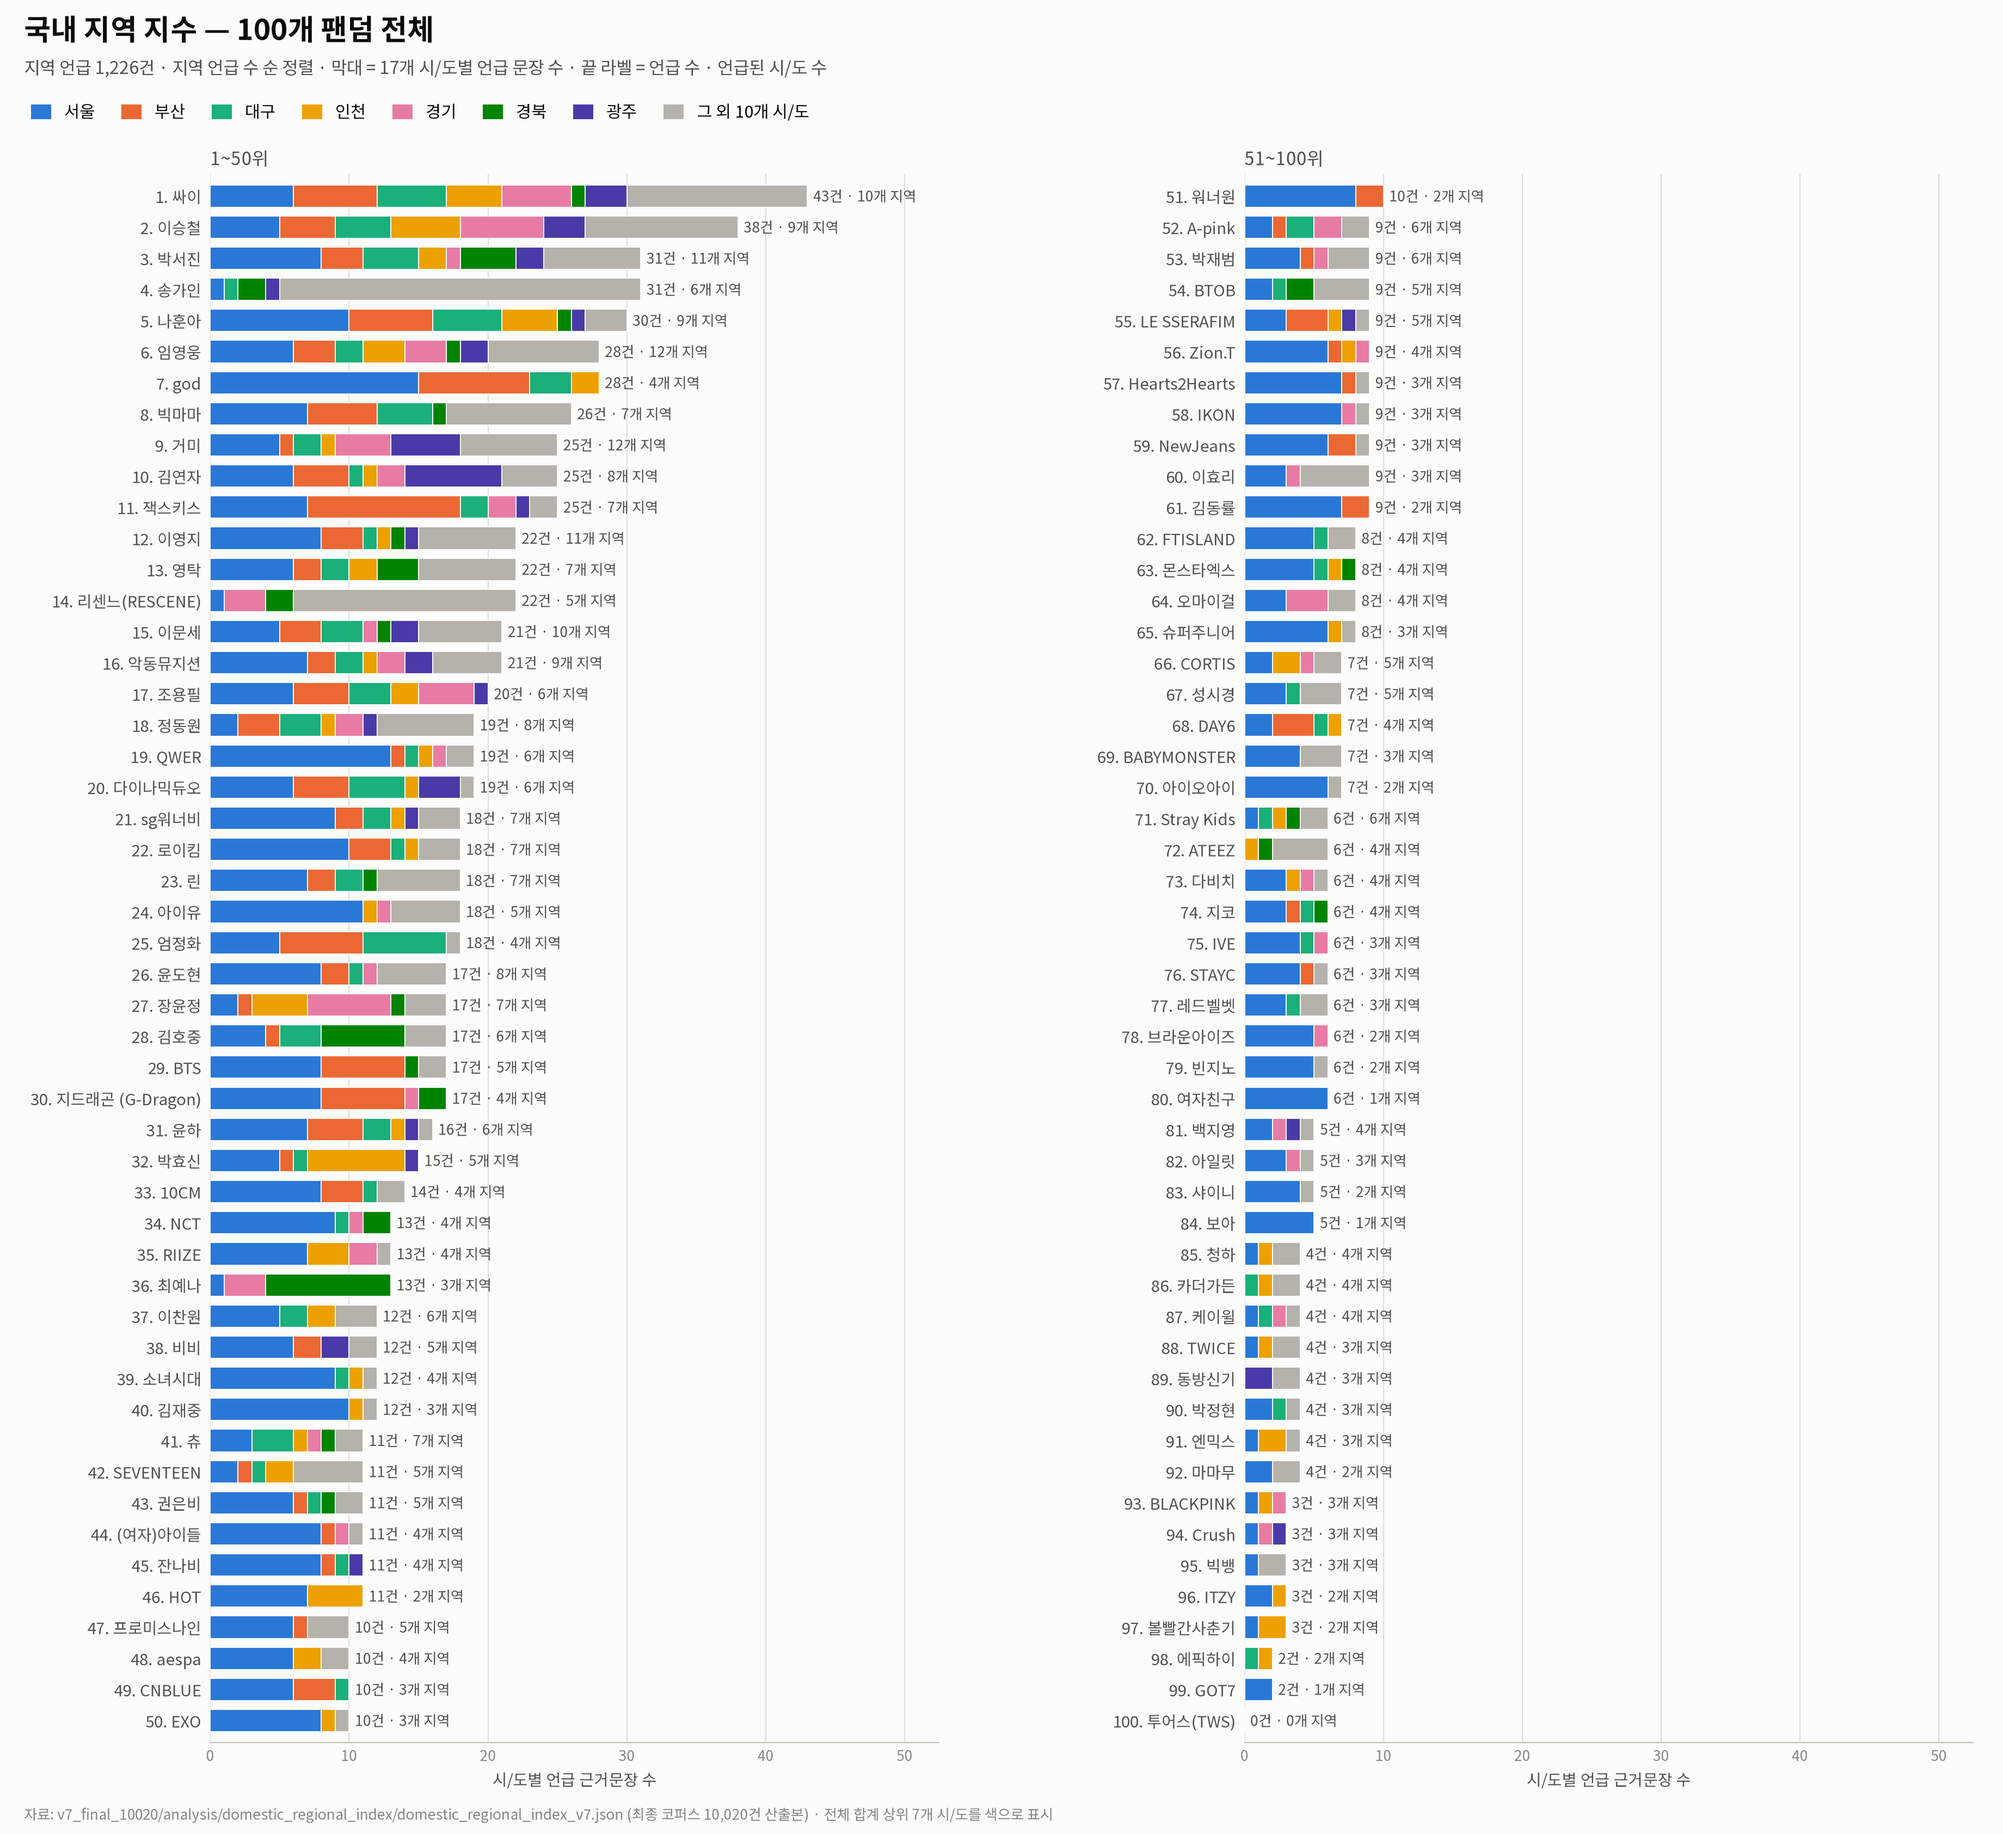
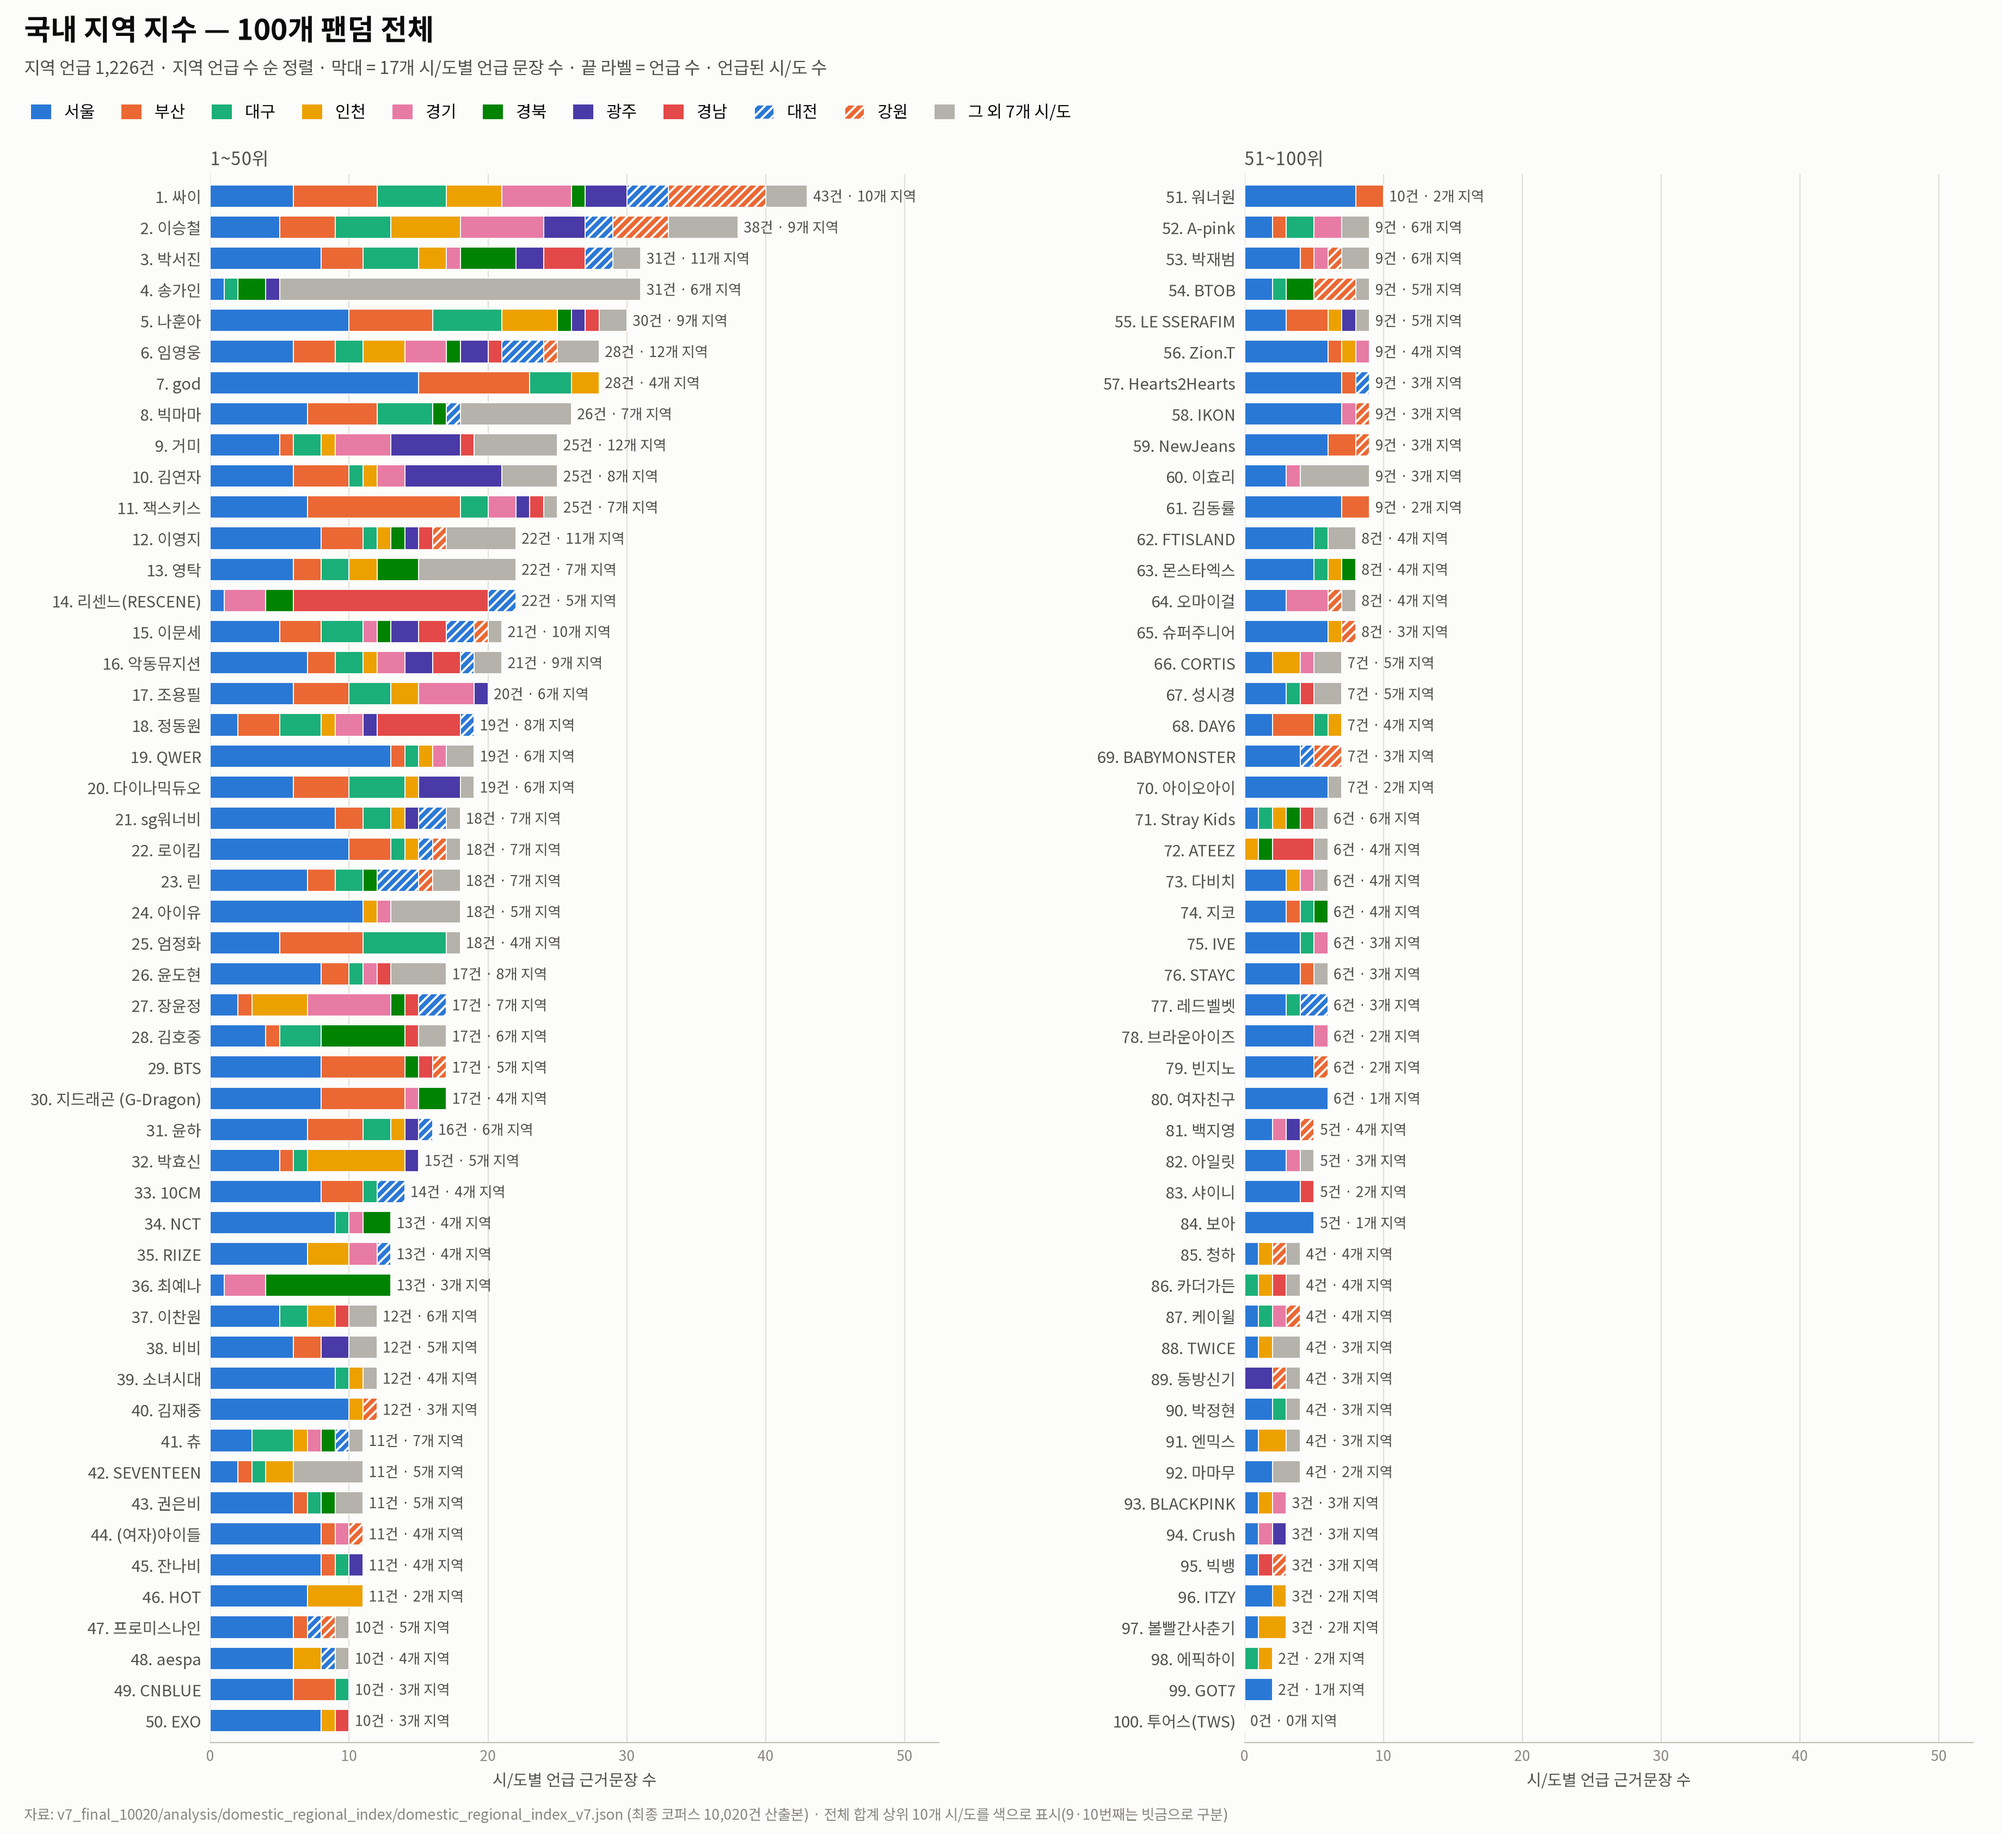
국내 지역 지수 100개 팬덤 그래프: 색 구분 시/도를 상위 7개 → 10개로 확대(대전·강원·경남 추가 구분)
9·10번째는 1·2번 색에 빗금을 더한 복합 인코딩, 나머지 7개 시/도는 '그 외' 회색.

Claude-Session: https://claude.ai/code/session_01VWuqhk8UFpTen2BecLssSX

diff --git a/v7_final_10020/charts/build_aux_indices_100_v7.py b/v7_final_10020/charts/build_aux_indices_100_v7.py
@@ -6,7 +6,7 @@ README 6절의 그림은 상위 20·25개만 보여 주므로, 같은 지표를 
   aux2_media_exposure_100.png       미디어·콘텐츠 노출 지수 — 예능·유튜브·영화·드라마 누적 막대
   aux3_fandom_cohesion_100.png      팬덤결속 지수 — 결속 유형 A~E 누적 막대
   aux4_media_crossover_100.png      매체 크로스오버 지수 — 서로 다른 뉴스 매체 수
-  aux5_domestic_regional_100.png    국내 지역 지수 — 지역 구성(상위 7개 시/도 + 그 외) 누적 막대
+  aux5_domestic_regional_100.png    국내 지역 지수 — 지역 구성(상위 10개 시/도 + 그 외) 누적 막대
   aux6_member_mci_45.png            멤버 집중도(MCI) — 45개 그룹, 구조적 하한 1/멤버수 표시
   aux7_worldwide_language_100.png   세계 언어 지수 — 해외언어 구성(상위 7개 언어 + 그 외) 누적 막대
 
@@ -51,9 +51,12 @@ plt.rcParams["axes.unicode_minus"] = False
 
 # ---- 색·잉크 (reference palette, light) -------------------------------------
 SERIES = ["#2a78d6", "#eb6834", "#1baf7a", "#eda100", "#e87ba4", "#008300", "#4a3aa7"]
+SERIES8 = "#e34948"        # 범주형 8번째 슬롯(red)
 OTHER = "#b4b2aa"          # '그 외' 묶음 — 의도적 중립 회색
 SURFACE, INK, INK2, MUTED, GRID, AXIS = "#fcfcfb", "#0b0b0b", "#52514e", "#898781", "#e1e0d9", "#c3c2b7"
 DPI = 200
+plt.rcParams["hatch.color"] = SURFACE
+plt.rcParams["hatch.linewidth"] = 1.4
 
 
 def load(p):
@@ -85,7 +88,7 @@ def footer(fig, text):
     fig.text(0.012, 0.006, text, fontsize=9.5, color=MUTED, va="bottom")
 
 
-def stacked_100(rows, keys, colors, labels, end_label, title, subtitle, xlabel, foot, fname, per_panel=50):
+def stacked_100(rows, keys, colors, labels, end_label, title, subtitle, xlabel, foot, fname, per_panel=50, hatches=None):
     """rows: [(name, {key: value}, total_for_sort)] 정렬 완료. 두 패널(1~50 / 51~100) 누적 가로 막대."""
     n = len(rows)
     panels = [rows[i:i + per_panel] for i in range(0, n, per_panel)]
@@ -98,9 +101,10 @@ def stacked_100(rows, keys, colors, labels, end_label, title, subtitle, xlabel, 
         names = [f"{pi * per_panel + i + 1:>3}. {r[0]}" for i, r in enumerate(part)]
         y = list(range(len(part)))[::-1]
         left = [0.0] * len(part)
-        for k, c in zip(keys, colors):
+        hs = hatches or [None] * len(keys)
+        for k, c, h in zip(keys, colors, hs):
             vals = [r[1].get(k, 0) for r in part]
-            ax.barh(y, vals, left=left, height=0.72, color=c, edgecolor=SURFACE, linewidth=0.7, zorder=2)
+            ax.barh(y, vals, left=left, height=0.72, color=c, edgecolor=SURFACE, linewidth=0.7, zorder=2, hatch=h)
             left = [a + b for a, b in zip(left, vals)]
         for yi, r, l in zip(y, part, left):
             ax.text(l + xmax * 0.008, yi, end_label(r), va="center", ha="left", fontsize=9.5, color=INK2, zorder=3)
@@ -110,7 +114,8 @@ def stacked_100(rows, keys, colors, labels, end_label, title, subtitle, xlabel, 
         style_axis(ax, xmax)
         ax.set_xlabel(xlabel, fontsize=10.5, color=INK2, labelpad=6)
         ax.set_title(f"{pi * per_panel + 1}~{pi * per_panel + len(part)}위", fontsize=12, color=INK2, loc="left", pad=6)
-    handles = [Patch(facecolor=c, edgecolor="none", label=l) for c, l in zip(colors, labels)]
+    handles = [Patch(facecolor=c, edgecolor=(SURFACE if h else "none"), hatch=h, label=l)
+               for c, l, h in zip(colors, labels, hatches or [None] * len(colors))]
     header(fig, title, subtitle, handles, ncol=len(handles))
     footer(fig, foot)
     fig.subplots_adjust(left=0.105, right=0.985, top=0.905, bottom=0.05, wspace=0.42)
@@ -180,7 +185,7 @@ rtot = {}
 for v in dr.values():
     for k, c in v["region_mention_counts"].items():
         rtot[k] = rtot.get(k, 0) + c
-reg7 = top_keys(rtot)
+reg7 = top_keys(rtot, 10)   # 상위 10개 시/도 — 범주형 8색 + 9·10번째는 1·2번 색에 빗금(복합 인코딩)
 rows = []
 for name, v in dr.items():
     rc = v["region_mention_counts"]
@@ -188,12 +193,12 @@ for name, v in dr.items():
     d["_other"] = sum(c for k, c in rc.items() if k not in reg7)
     rows.append((name, d, (v["total_region_mentions"], v["n_regions_hit"], v.get("region_diversity", 0))))
 rows.sort(key=lambda r: (-r[2][0], -r[2][1], r[0]))
-stacked_100(rows, reg7 + ["_other"], SERIES + [OTHER], reg7 + ["그 외 10개 시/도"],
+stacked_100(rows, reg7 + ["_other"], SERIES + [SERIES8, SERIES[0], SERIES[1], OTHER], reg7 + [f"그 외 {17 - len(reg7)}개 시/도"],
             lambda r: f"{r[2][0]}건 · {r[2][1]}개 지역",
             "국내 지역 지수 — 100개 팬덤 전체",
             f"지역 언급 {sum(rtot.values()):,}건 · 지역 언급 수 순 정렬 · 막대 = 17개 시/도별 언급 문장 수 · 끝 라벨 = 언급 수 · 언급된 시/도 수",
-            "시/도별 언급 근거문장 수", "자료: v7_final_10020/analysis/domestic_regional_index/domestic_regional_index_v7.json (최종 코퍼스 10,020건 산출본) · 전체 합계 상위 7개 시/도를 색으로 표시",
-            "aux5_domestic_regional_100.png")
+            "시/도별 언급 근거문장 수", "자료: v7_final_10020/analysis/domestic_regional_index/domestic_regional_index_v7.json (최종 코퍼스 10,020건 산출본) · 전체 합계 상위 10개 시/도를 색으로 표시(9·10번째는 빗금으로 구분)",
+            "aux5_domestic_regional_100.png", hatches=[None] * 8 + ["////", "////", None])
 
 # ---- 6. 멤버 집중도 MCI (45개 그룹) ------------------------------------------------
 mi = load(D / "member_mention_index_v7.json")
